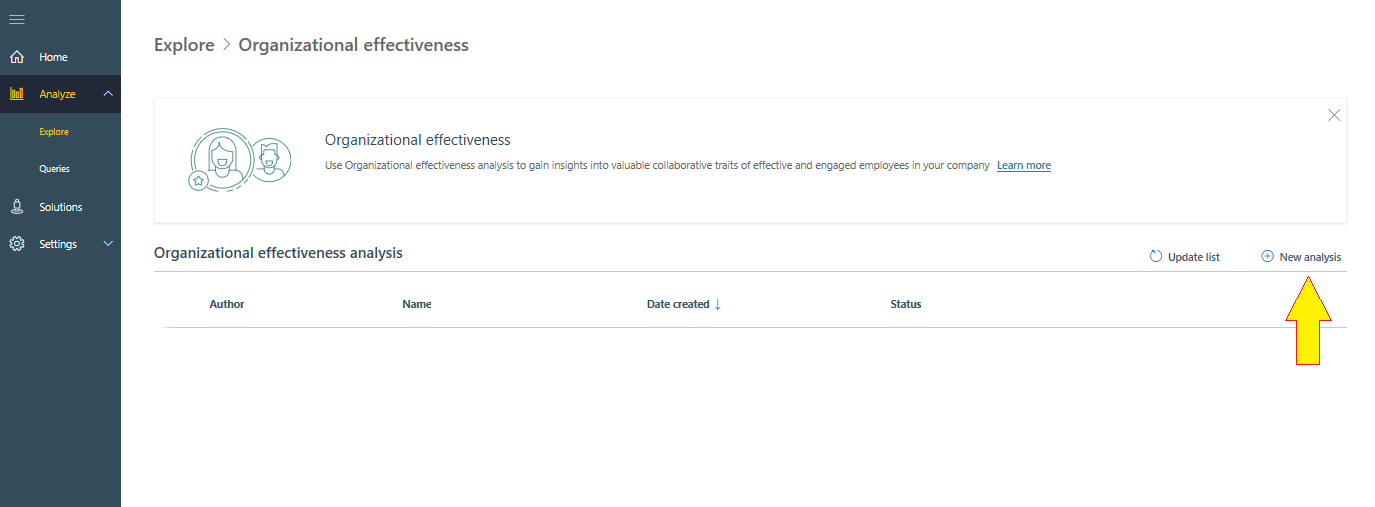
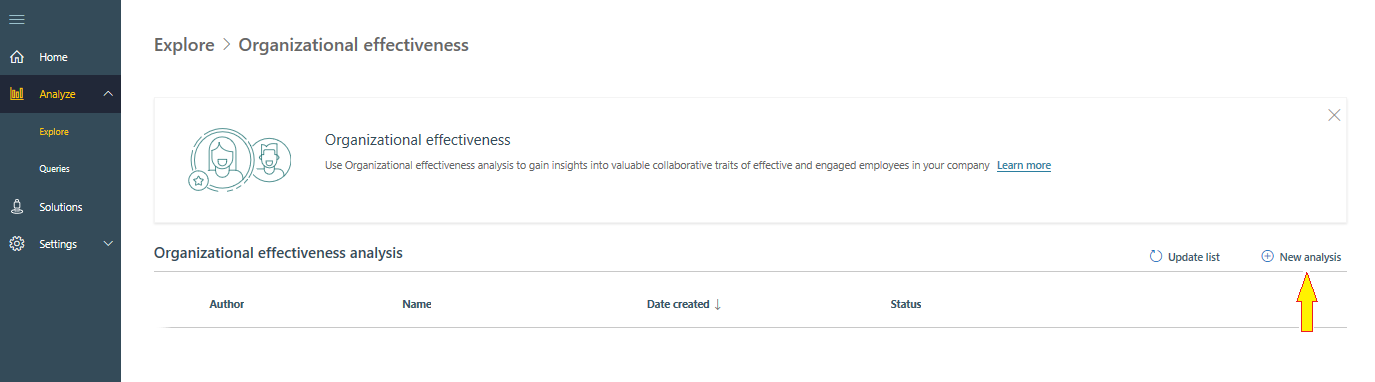
edits to org eff

diff --git a/WorkplaceAnalytics/Use/org-effectiveness.md b/WorkplaceAnalytics/Use/org-effectiveness.md
@@ -44,7 +44,7 @@ In this task, you take the first steps to start an organizational effectiveness 
 1.	Open [Workplace Analytics](https://workplaceanalytics.office.com/). If prompted, enter your work credentials. 
 2.	Expand **Analyze** and open the **Explore** page. This page has two sections: **Metrics overview** and **Analyze and start Solutions**.
 
-    ![Explore page](../images/wpa/use/select-org-eff.png)
+    ![Explore page](../images/wpa/use/explore-p12.png)
 
 3.	Under **Analyze and start Solutions**, select **Organizational effectiveness**. 
 
@@ -189,7 +189,7 @@ Follow these steps to upload a file that contains email addresses:
     Now, you could proceed with the analysis if the group size meets or exceeds the minimum group size. In this example, the actual group size (25) exceeds the minimum group size (five is the default, but it might be set to a higher number for your organization), so you can start the analysis with this group. 
 
 > [!Note] 
-> In addition to the minimum group size, a maximum group size is also in effect. The maximum group size for organizational effectiveness analyses is 150.
+> In addition to the minimum group size, a maximum group size is also in effect. The current maximum group size for organizational effectiveness analyses is 150.
 
 3.	Return to your current step, either [Identify the reference group](#identify-the-reference-group) or [Select the peer group](#select-the-peer-group).  
 
